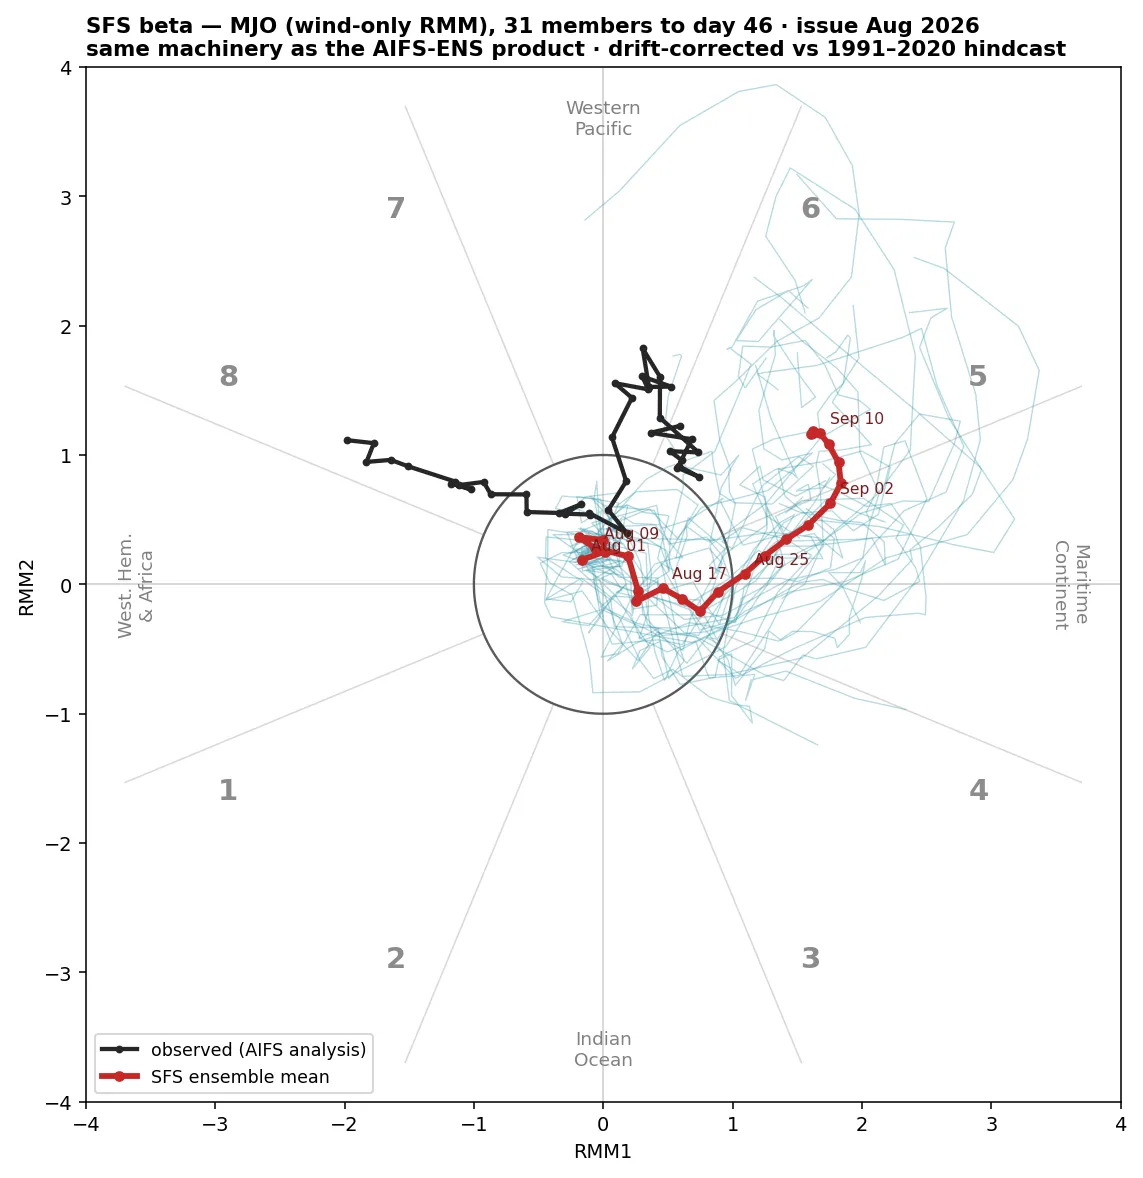
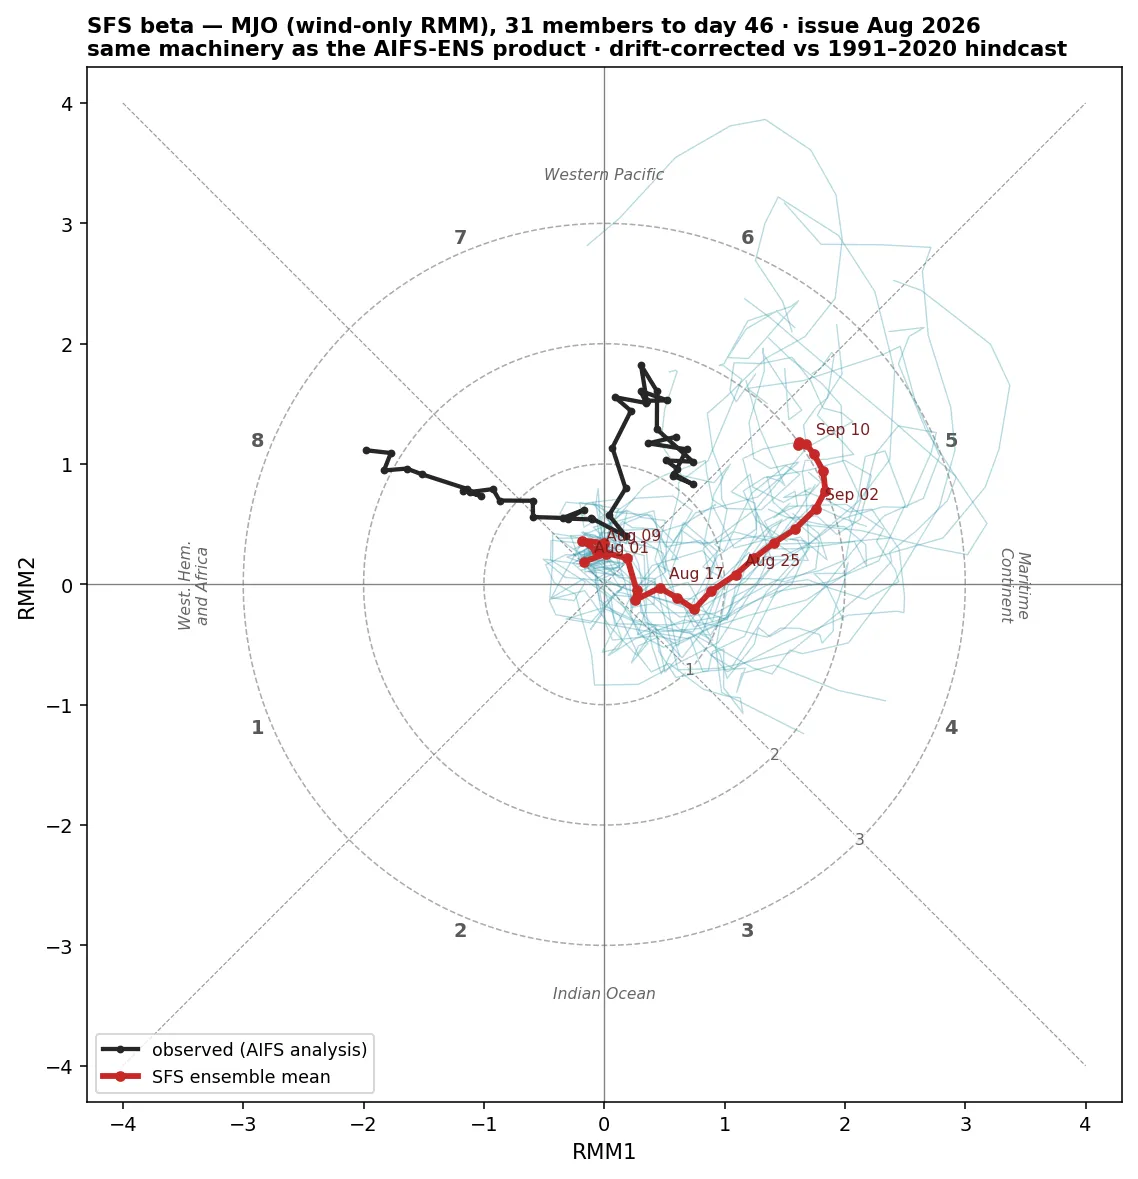
SFS: fix MJO phase wheel (reuse AIFS draw_phase_wheel), daily 100-hPa polar loop
- sfs_mjo.py: my hand-rolled sector lines sat 22.5 deg off the true WH04
  octant boundaries, splitting every phase in two — now imports
  draw_phase_wheel from scripts/mjo/src/plot.py so the SFS and AIFS
  diagrams share identical geometry.
- sfs_polar100.py: refactored into render_polar + per-lead-day reforecast
  climatology (polar100_daily_climo_{MM}.npz, mean + trend at forecast
  year); renders a 24-frame sfs_z100d loop (even leads to day 46) at
  +/-24 dam alongside the month-1 static.
- sfs.html: daily loop iframe added to the 100-hPa card.

diff --git a/sfs.html b/sfs.html
@@ -312,6 +312,13 @@
     not the absolute magnitude.</p>
     <img src="assets/sfs/polar100.webp" alt="SFS beta 100 hPa month-1 mean height anomaly, polar stereographic"
       style="width:100%;max-width:820px;display:block;margin:0 auto;border-radius:8px" loading="lazy">
+    <h2 style="font-size:18px;margin-top:14px">Daily &mdash; step through the first 46 days</h2>
+    <p class="note">The same view day by day (48-hour steps): each frame against the
+    reforecast's <em>per-lead-day</em> mean + trend, so the baseline evolves with the
+    forecast rather than being one monthly number.</p>
+    <iframe class="anim-embed" style="width:100%;aspect-ratio:0.95;border:0;border-radius:8px"
+      src="loop.html?base=assets/sfs/anim/&amp;manifest=sfs_z100d_manifest.json&amp;region=sfs_z100d&amp;autoplay=0"
+      title="SFS daily 100 hPa height anomaly polar loop" loading="lazy"></iframe>
     <div class="chart-card-footer">
       <span class="chart-sources">SFS beta atm_daily zarr (1&deg;), HGT/UGRD/VGRD
       100 hPa &middot; 31-member mean &middot; baseline: own reforecast 1991&ndash;2020

diff --git a/scripts/sfs/sfs_polar100.py b/scripts/sfs/sfs_polar100.py
@@ -1,21 +1,28 @@
 #!/usr/bin/env python3
-"""SFS beta — month-1 mean 100-hPa polar-stereographic view.
+"""SFS beta — 100-hPa polar-stereographic products from the daily members.
 
-Ensemble-mean month-1 (init month, valid days 0-30) 100-hPa height anomaly
-vs the model's own 1991-2020 x 11-member reforecast month-1 mean, with the
-absolute ensemble-mean height contoured and the absolute ensemble-mean
-100-hPa wind as vectors. Heights and the anomaly baseline both come from
-the daily stream (the monthly store stops at 200 hPa), and the hindcast
-baseline means any lead-dependent model bias common to forecast and
-reforecast cancels in the anomaly.
+Two products (the monthly store stops at 200 hPa, so both come from the
+daily stream, instantaneous fields on even leads):
 
-Output: assets/sfs/polar100.webp (+ climo cache polar100_climo_{MM}.npz).
+1. assets/sfs/polar100.webp — month-1 mean (valid days 0-30) ensemble-mean
+   height anomaly.
+2. assets/sfs/anim/sfs_z100d/F*.webp + manifest — one frame per even lead
+   out to day 46 for the loop player.
+
+Baselines are the model's own 1991-2020 x 11-member reforecast (month-1
+mean for the static, per-lead-day for the loop), each evaluated as
+mean + own linear trend at the forecast year — a plain 30-year mean
+leaves a near-uniform warming offset that saturates the color scale.
+Absolute ensemble-mean height is contoured and the absolute mean wind
+drawn as vectors on every panel.
 
     python scripts/sfs/sfs_polar100.py [--issue 202608]
 """
 from __future__ import annotations
 import argparse
+import json
 import sys
+import time as _time
 from datetime import datetime, timezone
 from pathlib import Path
 
@@ -34,6 +41,7 @@ HERE = Path(__file__).resolve().parent
 REPO = HERE.parent.parent
 CLIMDIR = HERE / "data"
 OUTPNG = REPO / "assets" / "sfs" / "polar100.webp"
+ANIM = REPO / "assets" / "sfs" / "anim"
 BASE = "https://noaa-oar-sfsdev-pds.s3.amazonaws.com/experiments/beta1"
 LAT0 = 20          # plot + load domain: 20N poleward
 MAXDAY = 30        # month-1 window: valid days 0-30 of the init month
@@ -49,29 +57,37 @@ def _nh(ds):
     return ds.where(ds.lat >= LAT0, drop=True)
 
 
-def _msel(ds):
-    """Even-lead (instantaneous-field) indices with valid day <= MAXDAY."""
+def _msel(ds, maxday=None):
+    """Even-lead (instantaneous-field) indices, optionally capped by valid day."""
     days = pd.to_timedelta(ds.lead.values).days.values
     probe = ds.HGT_100mb
     idx = {"member": 0, "lat": 0, "lon": 0}
     if "init" in probe.dims:
         idx["init"] = 0
     col = probe.isel(**idx).values
-    return np.where(np.isfinite(col) & (days <= MAXDAY))[0]
+    ok = np.isfinite(col)
+    if maxday is not None:
+        ok &= days <= maxday
+    return np.where(ok)[0]
+
+
+def _trend_fit(yearly, years):
+    """Per-gridpoint OLS slope of yearly (n_init, ...) against years."""
+    yc = years - years.mean()
+    return (np.tensordot(yc, yearly - yearly.mean(axis=0), axes=(0, 0))
+            / (yc ** 2).sum()).astype(np.float32)
 
 
 def polar100_climo(month: int) -> dict:
     """Reforecast month-1 mean z100 (dam): 30-year mean, interannual σ, and
-    the per-gridpoint linear trend (dam/yr) so the baseline can be evaluated
-    at the forecast year — same convention as the daily anomaly maps; a plain
-    1991-2020 mean leaves a near-uniform warming offset that saturates the
-    color scale before any pattern shows."""
+    linear trend (dam/yr) so the baseline can be evaluated at the forecast
+    year — same convention as the daily anomaly maps."""
     f = CLIMDIR / f"polar100_climo_{month:02d}.npz"
     if f.exists():
         return dict(np.load(f))
     ds = _nh(_open(f"{BASE}/reforecast/{month:02d}/atm_daily.zarr")
              .sel(init=slice("1991", "2020")))
-    sel = _msel(ds)
+    sel = _msel(ds, MAXDAY)
     years = ds.init.dt.year.values.astype(np.float64)
     n_init = ds.sizes["init"]
     yearly = np.zeros((n_init, ds.sizes["lat"], ds.sizes["lon"]), np.float32)
@@ -79,40 +95,52 @@ def polar100_climo(month: int) -> dict:
         z = ds.HGT_100mb.isel(init=yi).values[:, sel]     # (11, n, lat, lon)
         yearly[yi] = z.mean(axis=(0, 1)) / 10.0           # m -> dam
         print(f"polar100 climo: init {yi + 1}/{n_init}", flush=True)
-    yc = years - years.mean()
-    slope = np.tensordot(yc, yearly - yearly.mean(axis=0), axes=(0, 0)) / (yc ** 2).sum()
     out = {"mu": yearly.mean(axis=0), "sd": yearly.std(axis=0, ddof=1),
-           "slope": slope.astype(np.float32), "y_mid": years.mean(),
+           "slope": _trend_fit(yearly, years), "y_mid": years.mean(),
            "lat": ds.lat.values, "lon": ds.lon.values}
     CLIMDIR.mkdir(parents=True, exist_ok=True)
     np.savez_compressed(f, **out)
     print(f"polar100 climo {month:02d}: cached "
-          f"(trend {slope.min():+.3f}..{slope.max():+.3f} dam/yr)", flush=True)
+          f"(trend {out['slope'].min():+.3f}..{out['slope'].max():+.3f} dam/yr)",
+          flush=True)
     return out
 
 
-def main():
-    ap = argparse.ArgumentParser()
-    ap.add_argument("--issue", default=datetime.now(timezone.utc).strftime("%Y%m"))
-    args = ap.parse_args()
-    issue = args.issue
-    t0 = pd.Timestamp(f"{issue[:4]}-{issue[4:6]}-01")
-
-    C = polar100_climo(t0.month)
-    ds = _nh(_open(f"{BASE}/forecast/{issue}/atm_daily.zarr"))
+def polar100_daily_climo(month: int) -> dict:
+    """Per-lead-day reforecast z100 climatology (dam): 30-year mean and
+    linear trend at every even lead — baseline for the daily loop frames."""
+    f = CLIMDIR / f"polar100_daily_climo_{month:02d}.npz"
+    if f.exists():
+        return dict(np.load(f))
+    ds = _nh(_open(f"{BASE}/reforecast/{month:02d}/atm_daily.zarr")
+             .sel(init=slice("1991", "2020")))
     sel = _msel(ds)
-    lat, lon = ds.lat.values, ds.lon.values
-    z = ds.HGT_100mb.values[:, sel].mean(axis=(0, 1)) / 10.0   # (lat, lon) dam
-    u = ds.UGRD_100mb.values[:, sel].mean(axis=(0, 1))
-    v = ds.VGRD_100mb.values[:, sel].mean(axis=(0, 1))
-    anom = z - (C["mu"] + C["slope"] * (t0.year - C["y_mid"]))
-    print(f"z100 anom (trend-adjusted): min {anom.min():+.1f} max {anom.max():+.1f} dam "
-          f"({len(sel)} even-lead days)", flush=True)
+    years = ds.init.dt.year.values.astype(np.float64)
+    n_init = ds.sizes["init"]
+    yearly = np.zeros((n_init, len(sel), ds.sizes["lat"], ds.sizes["lon"]),
+                      np.float32)
+    for yi in range(n_init):
+        z = ds.HGT_100mb.isel(init=yi).values[:, sel]     # (11, n, lat, lon)
+        yearly[yi] = z.mean(axis=0) / 10.0                # m -> dam, member mean
+        print(f"polar100 daily climo: init {yi + 1}/{n_init}", flush=True)
+    out = {"mu": yearly.mean(axis=0), "slope": _trend_fit(yearly, years),
+           "y_mid": years.mean()}
+    CLIMDIR.mkdir(parents=True, exist_ok=True)
+    np.savez_compressed(f, **out)
+    print(f"polar100 daily climo {month:02d}: cached ({len(sel)} leads)",
+          flush=True)
+    return out
 
-    # cyclic point so filled contours close at the dateline
+
+def render_polar(lat, lon, z, anom, u, v, title, cbar_label, outpath,
+                 levels):
+    """One polar-stereo panel: filled anomaly, absolute-height contours,
+    absolute wind vectors."""
     lonc = np.concatenate([lon, [lon[0] + 360]])
-    zc, ac = [np.concatenate([x, x[:, :1]], axis=1) for x in (z, anom)]
-    uc, vc = [np.concatenate([x, x[:, :1]], axis=1) for x in (u, v)]
+    zc = np.concatenate([z, z[:, :1]], axis=1)
+    ac = np.concatenate([anom, anom[:, :1]], axis=1)
+    uc = np.concatenate([u, u[:, :1]], axis=1)
+    vc = np.concatenate([v, v[:, :1]], axis=1)
 
     proj = ccrs.NorthPolarStereo(central_longitude=-90)
     fig = plt.figure(figsize=(9.4, 9.9))
@@ -122,8 +150,7 @@ def main():
     circ = mpath.Path(np.column_stack([np.sin(th), np.cos(th)]) * 0.5 + 0.5)
     ax.set_boundary(circ, transform=ax.transAxes)
 
-    lv = np.arange(-18, 18.1, 2.0)
-    cf = ax.contourf(lonc, lat, ac, levels=lv, cmap="RdBu_r", extend="both",
+    cf = ax.contourf(lonc, lat, ac, levels=levels, cmap="RdBu_r", extend="both",
                      transform=ccrs.PlateCarree())
     cs = ax.contour(lonc, lat, zc, levels=np.arange(1590, 1720, 6),
                     colors="0.25", linewidths=0.8, transform=ccrs.PlateCarree())
@@ -138,16 +165,72 @@ def main():
 
     cb = fig.colorbar(cf, ax=ax, orientation="horizontal", fraction=0.045,
                       pad=0.03, aspect=45)
-    cb.set_label("100-hPa height anomaly (dam) vs reforecast 1991–2020 mean + trend "
-                 f"evaluated at {t0.year}", fontsize=9)
-    ax.set_title(f"SFS beta — 100 hPa, month-1 mean ({t0:%b %Y}, valid days 0–{MAXDAY})\n"
-                 "31-member ensemble mean · contours: mean height (dam) · "
-                 "vectors: mean wind", fontsize=11, fontweight="bold", loc="left")
+    cb.set_label(cbar_label, fontsize=9)
+    ax.set_title(title, fontsize=11, fontweight="bold", loc="left")
     fig.subplots_adjust(top=0.93, bottom=0.05, left=0.02, right=0.98)
-    OUTPNG.parent.mkdir(parents=True, exist_ok=True)
-    fig.savefig(OUTPNG, dpi=140, pad_inches=0.1)
+    outpath.parent.mkdir(parents=True, exist_ok=True)
+    fig.savefig(outpath, dpi=130, pad_inches=0.1)
     plt.close(fig)
-    print(f"wrote {OUTPNG.relative_to(REPO)}")
+
+
+def main():
+    ap = argparse.ArgumentParser()
+    ap.add_argument("--issue", default=datetime.now(timezone.utc).strftime("%Y%m"))
+    args = ap.parse_args()
+    issue = args.issue
+    t0 = pd.Timestamp(f"{issue[:4]}-{issue[4:6]}-01")
+
+    ds = _nh(_open(f"{BASE}/forecast/{issue}/atm_daily.zarr"))
+    lat, lon = ds.lat.values, ds.lon.values
+    lead_days = pd.to_timedelta(ds.lead.values).days.values
+    sel = _msel(ds)                                   # all even leads (loop)
+    sel1 = sel[lead_days[sel] <= MAXDAY]              # month-1 subset (static)
+    z = ds.HGT_100mb.values[:, sel].mean(axis=0) / 10.0   # (n, lat, lon) dam
+    u = ds.UGRD_100mb.values[:, sel].mean(axis=0)
+    v = ds.VGRD_100mb.values[:, sel].mean(axis=0)
+    m1 = np.isin(sel, sel1)
+
+    # ── month-1 static ──────────────────────────────────────────────────────
+    C = polar100_climo(t0.month)
+    anom1 = z[m1].mean(axis=0) - (C["mu"] + C["slope"] * (t0.year - C["y_mid"]))
+    print(f"z100 month-1 anom: min {anom1.min():+.1f} max {anom1.max():+.1f} dam",
+          flush=True)
+    render_polar(
+        lat, lon, z[m1].mean(axis=0), anom1, u[m1].mean(axis=0), v[m1].mean(axis=0),
+        f"SFS beta — 100 hPa, month-1 mean ({t0:%b %Y}, valid days 0–{MAXDAY})\n"
+        "31-member ensemble mean · contours: mean height (dam) · vectors: mean wind",
+        f"100-hPa height anomaly (dam) vs reforecast 1991–2020 mean + trend "
+        f"evaluated at {t0.year}",
+        OUTPNG, np.arange(-18, 18.1, 2.0))
+    print(f"wrote {OUTPNG.relative_to(REPO)}", flush=True)
+
+    # ── daily loop ──────────────────────────────────────────────────────────
+    D = polar100_daily_climo(t0.month)
+    base = D["mu"] + D["slope"] * (t0.year - D["y_mid"])   # (n, lat, lon)
+    name = "sfs_z100d"
+    outdir = ANIM / name
+    outdir.mkdir(parents=True, exist_ok=True)
+    frames = []
+    for i, k in enumerate(sel):
+        valid = t0 + pd.Timedelta(days=int(lead_days[k]))
+        anom = z[i] - base[i]
+        render_polar(
+            lat, lon, z[i], anom, u[i], v[i],
+            f"SFS beta — 100 hPa · {valid:%a %b %d %Y} (day {int(lead_days[k])}) "
+            f"· issue {t0:%b %Y}\n31-member ensemble mean · contours: mean height "
+            "(dam) · vectors: mean wind",
+            f"100-hPa height anomaly (dam) vs reforecast 1991–2020 per-lead mean "
+            f"+ trend evaluated at {t0.year}",
+            outdir / f"F{i:02d}.webp", np.arange(-24, 24.1, 3.0))
+        frames.append({"idx": i, "file": f"F{i:02d}.webp",
+                       "date": f"{valid:%Y-%m-%d}",
+                       "label": f"{valid:%b %d} · day {int(lead_days[k])}"})
+        print(f"frame {i + 1}/{len(sel)}", flush=True)
+    (ANIM / f"{name}_manifest.json").write_text(json.dumps(
+        {"ver": int(_time.time()), "days": len(frames),
+         "regions": {name: {"label": "SFS 100-hPa height anomaly (polar)",
+                            "n_frames": len(frames), "frames": frames}}}))
+    print(f"loop {name}: {len(frames)} frames", flush=True)
     return 0
 
 

diff --git a/scripts/sfs/sfs_mjo.py b/scripts/sfs/sfs_mjo.py
@@ -151,25 +151,11 @@ def main():
     obs = xr.open_dataset(MREF / "obs_history.nc")
     otr = obs.isel(time=slice(-40, None))
 
-    # ── WH04 phase diagram ──────────────────────────────────────────────────
+    # ── WH04 phase diagram — same wheel as the AIFS-ENS product ─────────────
+    sys.path.insert(0, str(REPO / "scripts" / "mjo" / "src"))
+    from plot import draw_phase_wheel
     fig, ax = plt.subplots(figsize=(9.6, 9.6))
-    th = np.linspace(0, 2 * np.pi, 200)
-    ax.plot(np.cos(th), np.sin(th), color="0.35", lw=1.2)
-    for k in range(8):
-        a0 = np.deg2rad(45 * k + 22.5)
-        ax.plot([np.cos(a0), 4 * np.cos(a0)], [np.sin(a0), 4 * np.sin(a0)],
-                color="0.85", lw=0.8, zorder=0)
-    ph_lab = {1: (-2.9, -1.6), 2: (-1.6, -2.9), 3: (1.6, -2.9), 4: (2.9, -1.6),
-              5: (2.9, 1.6), 6: (1.6, 2.9), 7: (-1.6, 2.9), 8: (-2.9, 1.6)}
-    for ph, (x, y) in ph_lab.items():
-        ax.text(x, y, str(ph), fontsize=15, color="0.55", ha="center",
-                va="center", fontweight="bold")
-    for lab, (x, y, rot) in {"Indian\nOcean": (0, -3.6, 0),
-                             "Maritime\nContinent": (3.6, 0, -90),
-                             "Western\nPacific": (0, 3.6, 0),
-                             "West. Hem.\n& Africa": (-3.6, 0, 90)}.items():
-        ax.text(x, y, lab, fontsize=9.5, color="0.5", ha="center", va="center",
-                rotation=rot)
+    draw_phase_wheel(ax)
     for m in range(rmm1.shape[0]):
         ax.plot(rmm1[m], rmm2[m], color="#2e97ad", lw=0.7, alpha=0.35)
     ax.plot(otr.rmm1, otr.rmm2, color="0.15", lw=2.2, marker="o", ms=3,
@@ -180,10 +166,6 @@ def main():
     for i in range(0, len(valid), 4):
         ax.annotate(f"{valid[i]:%b %d}", (mm1[i], mm2[i]), fontsize=8,
                     color="#7a1d1d", xytext=(5, 5), textcoords="offset points")
-    ax.set_xlim(-4, 4); ax.set_ylim(-4, 4); ax.set_aspect("equal")
-    ax.axhline(0, color="0.8", lw=0.8, zorder=0)
-    ax.axvline(0, color="0.8", lw=0.8, zorder=0)
-    ax.set_xlabel("RMM1"); ax.set_ylabel("RMM2")
     ax.set_title(f"SFS beta — MJO (wind-only RMM), 31 members to day "
                  f"{int(lead_days[sel][-1])} · issue {t0:%b %Y}\n"
                  "same machinery as the AIFS-ENS product · drift-corrected "
